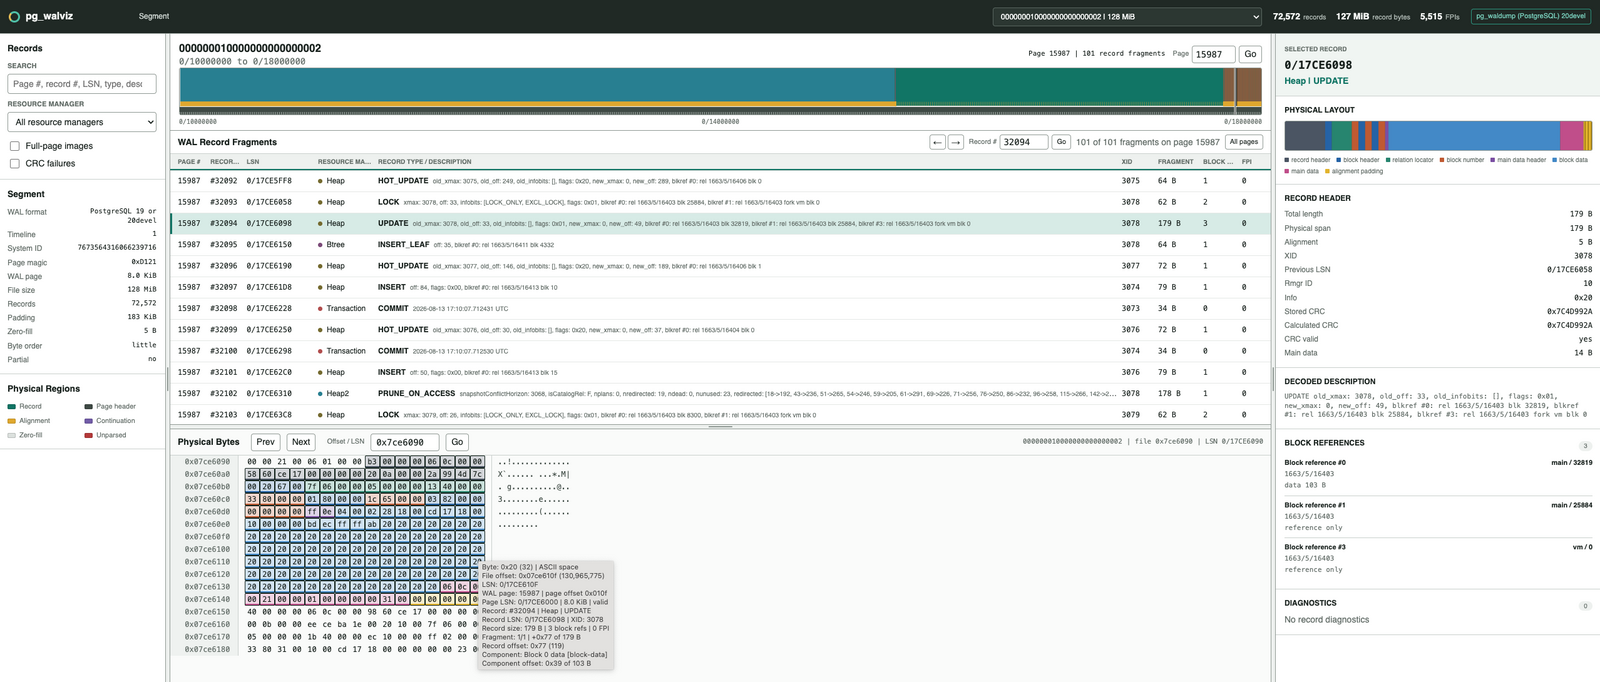
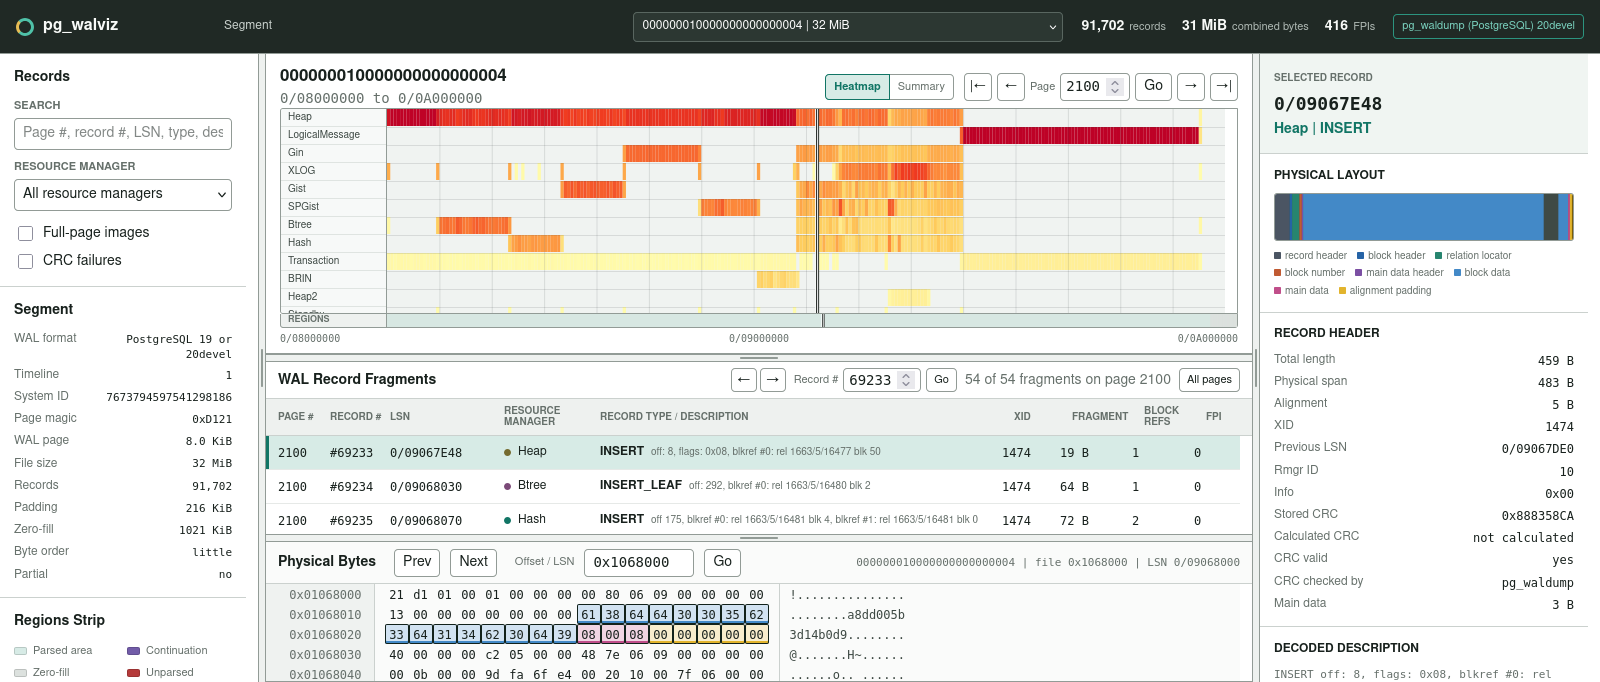
pg_walviz update

diff --git a/_posts/2026-08-13-welcome-to-pg-walviz-postgresql-wal-segment-visualizer.md b/_posts/2026-08-13-welcome-to-pg-walviz-postgresql-wal-segment-visualizer.md
@@ -33,19 +33,9 @@ full-page images and raw bytes.
 
 It is a read-only tool that displays a WAL segment in a local browser.
 
-It presents the same WAL data at three levels:
-
-- The segment overview displays all the WAL pages and where the record
-  fragments are located.
-- The WAL Record Fragments panel lists the records present on the selected
-  page.
-- The record inspector and Physical Bytes panels display the record structure
-  and raw bytes.
-
-Those views are synchronized. For example, selecting a page in the segment
-overview updates the list of WAL record fragments and the physical bytes.
-Selecting a record does the same for the other views. One can also go directly
-to a page number, record number, file offset or LSN.
+The interface is split into four synchronized views. Selecting a page or record
+in one view updates the others. One can also go directly to a page number,
+record number, file offset or LSN.
 
 As a picture is worth a thousand words, let's have a look at it:
 
@@ -53,12 +43,50 @@ As a picture is worth a thousand words, let's have a look at it:
      class="aligncenter size-full"
      alt="pg_walviz overview" />
 
-As you can see, the colors in the Physical Layout and Physical Bytes panels
-help to locate the record header, block headers, image headers, relation
-locator, block number, full-page images, main data and alignment padding.
+#### Segment overview
 
-Moving the mouse over a byte also displays its value, file offset, LSN, WAL
-page, record, fragment, XID and decoded component.
+<img src="{{ site.baseurl }}/assets/images/pg_walviz-segment-overview.png"
+     class="aligncenter size-full"
+     alt="pg_walviz segment overview" />
+
+The heatmap shows where each resource manager writes WAL in the segment.
+Its horizontal axis represents WAL page ranges and its colors represent the
+amount of record data in each range. One can click a cell to inspect it or drag
+across pages to zoom. The Summary tab reports record and full-page-image bytes
+by resource manager.
+
+#### WAL Record Fragments
+
+<img src="{{ site.baseurl }}/assets/images/pg_walviz-record-fragments.png"
+     class="aligncenter size-full"
+     alt="pg_walviz WAL Record Fragments" />
+
+The WAL Record Fragments panel lists the records stored on the selected WAL
+page. A record spanning several pages is displayed once on each page. One can
+filter the list or go directly to a page or record number.
+
+#### Selected Record
+
+<img src="{{ site.baseurl }}/assets/images/pg_walviz-selected-record.png"
+     class="aligncenter size-full"
+     alt="pg_walviz Selected Record inspector" />
+
+The Selected Record inspector displays the decoded record header, physical
+layout, block references, full-page-image information, CRC and `pg_waldump`
+description. The Physical Layout colors indicate record and block headers,
+image headers, relation locators, block numbers, full-page images, block data,
+main data and alignment padding.
+
+#### Physical Bytes
+
+<img src="{{ site.baseurl }}/assets/images/pg_walviz-physical-bytes.png"
+     class="aligncenter size-full"
+     alt="pg_walviz Physical Bytes" />
+
+The Physical Bytes panel displays the raw WAL bytes with colors matching the
+selected record's Physical Layout. One can go directly to a file offset or LSN.
+Moving the mouse over a byte displays its value, file offset, LSN, WAL page,
+record, fragment, XID and decoded component.
 
 ### How to use it
 
@@ -104,9 +132,8 @@ Then `http://127.0.0.1:8765/` can be opened locally.
   recycled, the metadata and bytes could disagree. Use completed archived
   segments or immutable copies instead.
 - WAL may contain sensitive data, so the viewer should only be exposed locally.
-- Large inputs are not lazy-loaded yet. The browser receives the metadata for
-  the complete input set in one JSON response. Large segments or many small
-  WAL records can therefore take time and memory to load.
+- WAL metadata is parsed at startup, so large segments or many small WAL records
+  can take time to load. Fragment rows and record details are loaded on demand.
 - Full-page images are located and their compression method and hole metadata
   are reported. They are not decompressed or reconstructed as PostgreSQL data
   pages.
